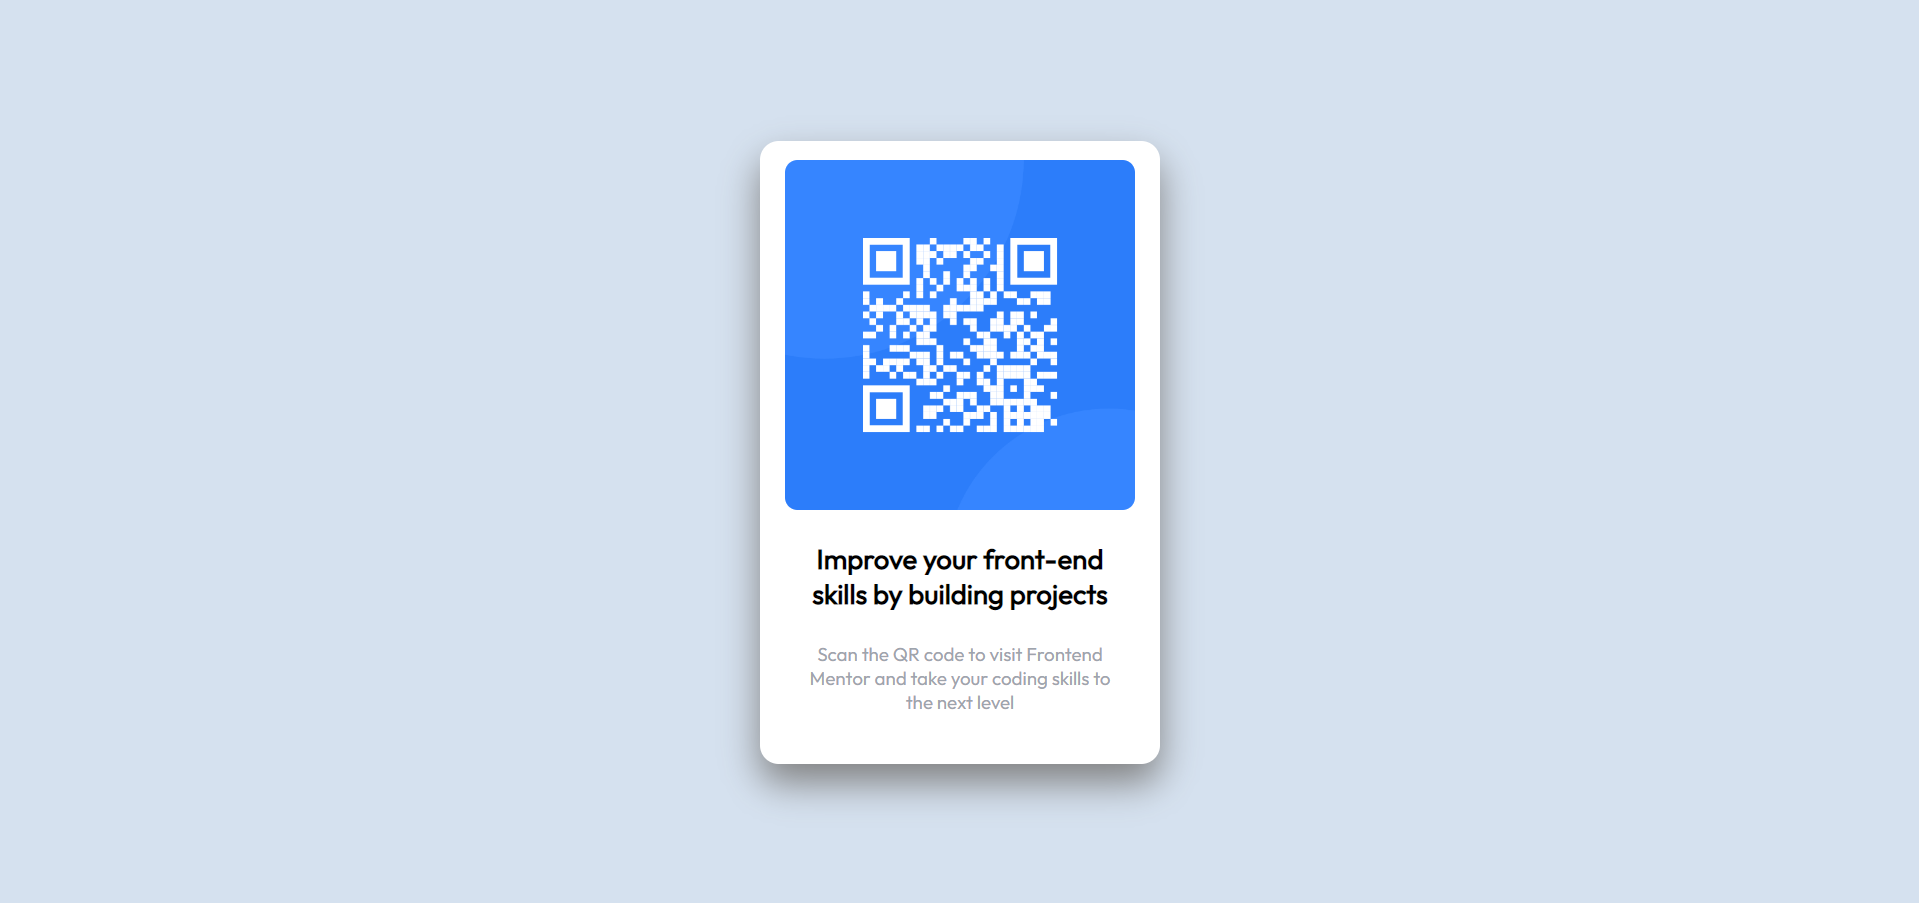
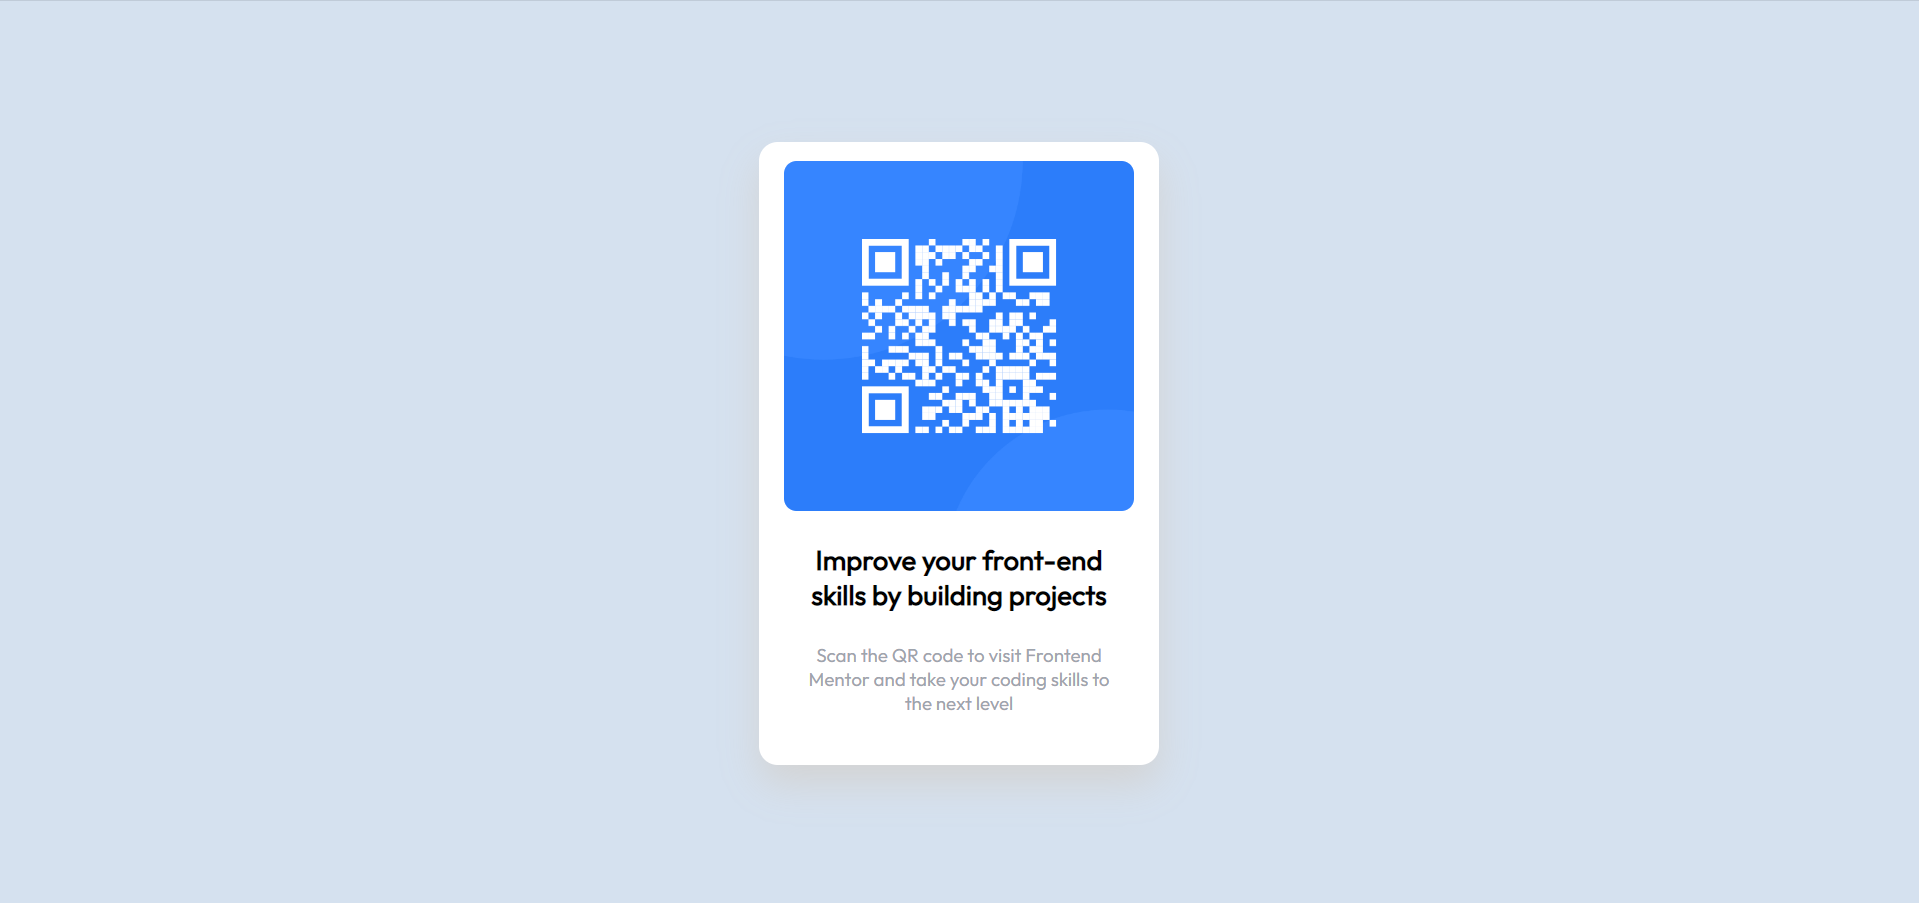
Update border box

Changed region(s): [[0.3689, 0.186, 0.6149, 0.8992], [0.4304, 0.2481, 0.5534, 0.4961]]

diff --git a/index.css b/index.css
@@ -34,7 +34,7 @@ p{
     text-align: center;
     font-family: 'Outfit', sans-serif;
     gap: 25px;
-    box-shadow: 0px 15px 30px gray;
+    box-shadow: 0px 15px 30px lightgray;
 }
 
 .qr-code-image {
